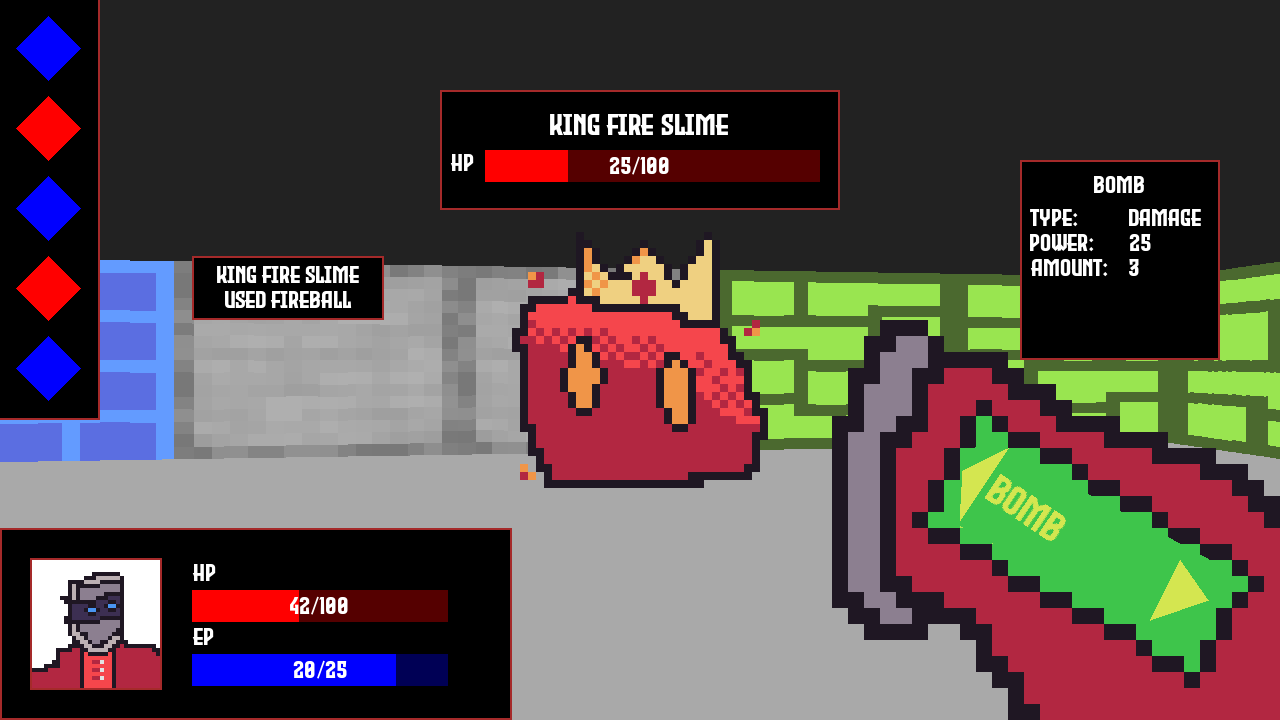
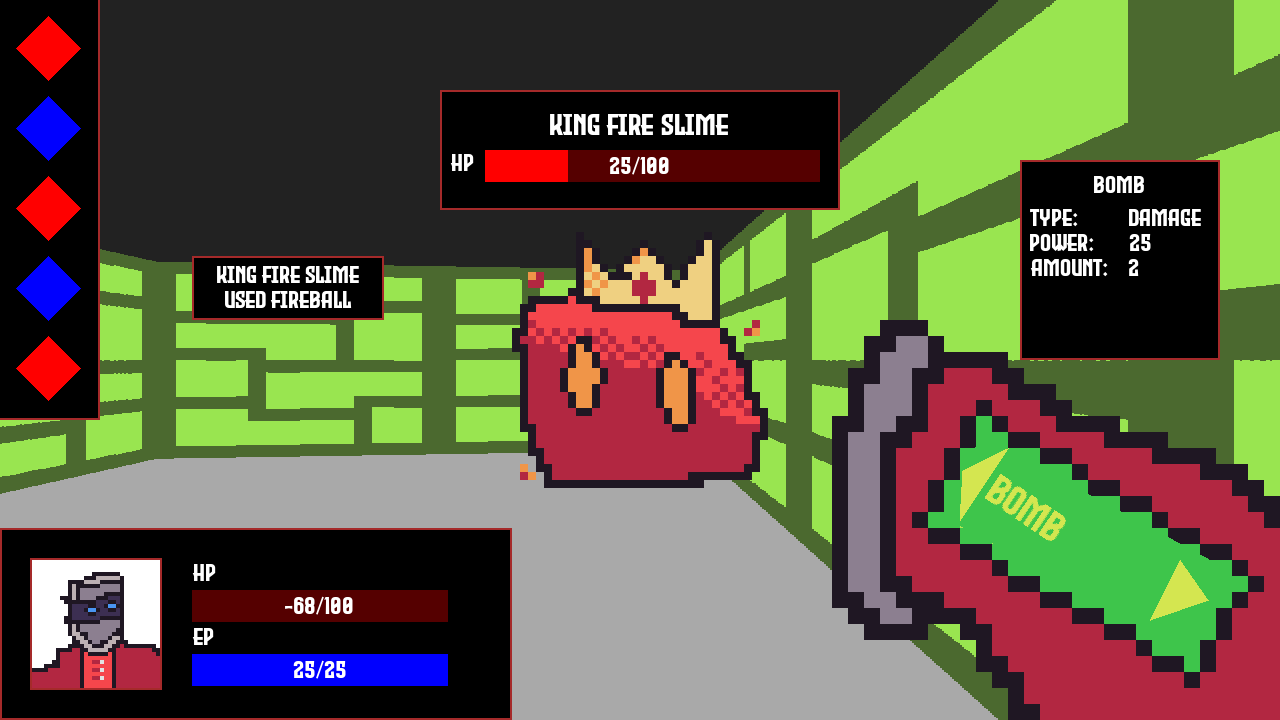
More Enemies
- There is now the ability to add more enemies
- Added Slime
- Enemy tile
- Enemies Show up in the world with the correct sprite
- Enemies get loaded with the correct stats and moveset
- Added Physical Enemy Attack 1
- Added ID to enemy class
- Added more moves to enemy moves file
- Added BasicSlime text file
- Fixed some graphical bugs (turn order not being drawn after update in battle item and energy because I didn't include it in their draw funcitons)
- Added Door Transitions

diff --git a/main.py b/main.py
@@ -68,10 +68,10 @@ map = [[1,1,1,1,1,1,1,1,1],
        [1,0,"S",0,1],
        [1,0,1,0,tile("Wall",wall_image=wall_image("Blue_Brick.png"))],
        [1,0,0,0,tile("Wall",wall_image=wall_image("SmoothStone.png"))],
-       [1,0,"B",0,tile("Wall",wall_image=wall_image("SmoothStone.png"))],
-       [wallTest,0,0,0,1],
-       [1,0,"W",0,1],#W on this line is just an indicator for me for where the player starts, it doesn't affect any processing
-       [1,1,1,1,1]]
+       [1,0,"BasicSlime",0,tile("Wall",wall_image=wall_image("SmoothStone.png")),1,1,1,1],
+       [wallTest,0,0,0,0,0,0,0,1],
+       [1,0,"W",0,0,0,"KingFireSlime",0,1],#W on this line is just an indicator for me for where the player starts, it doesn't affect any processing
+       [1,1,1,1,1,1,1,1,1]]
 
 
 for x in range(len(map)):
@@ -80,8 +80,10 @@ for x in range(len(map)):
             map[x][y]=tile("Wall",wall_image=wall_image("Brick.png"))
         elif map[x][y]==0 or map[x][y]=="W":
             map[x][y]=tile("Path")
-        elif type(map[x][y])==str:
+        elif map[x][y]=="S":
             map[x][y]=tile("Sprite",spriteInfo=map[x][y])
+        elif type(map[x][y])==str:
+            map[x][y]=tile("Enemy",spriteInfo=map[x][y])
             # print(1)
 
 # print(type(tile("Wall",wall_image("Smooth_Stone.png"))))
@@ -98,7 +100,7 @@ class battle_sprites():
         screen.blit(self.battle_image,img_rect)
         
 
-enemy = battle_sprites("FireSlimeKing")
+enemy = battle_sprites("KingFireSlime")
 
 
 player_stats = player_battle_container()
@@ -108,7 +110,7 @@ turnOrder = ["#0000FF","#0000FF","#FF0000","#0000FF","#FF0000"]
 
 # door = Image.open("Assets/Door.png")
 
-sprites_loaded = {"door" : pygame.image.load("Assets/Door.png").convert_alpha(),"KingFireSlime": pygame.image.load("Assets/FireSlimeKing.png").convert_alpha()}
+sprites_loaded = {"door" : pygame.image.load("Assets/Door.png").convert_alpha(),"KingFireSlime": pygame.image.load("Assets/KingFireSlime.png").convert_alpha(),"BasicSlime": pygame.image.load("Assets/BasicSlime.png").convert_alpha()}
 
 #UI images
 player_selfie = pygame.image.load("Assets/PlayerSelfie.png").convert_alpha()
@@ -237,14 +239,15 @@ def raycast_ray(count):
     while not is_blocked:#Until the ray meets a boundary
         degree_angles = math.degrees(angle)#convert angle from radians to degrees as it makes some calculations easier
 
-        if map[ray_pos_grid[1]][ray_pos_grid[0]].tileType == "Sprite":#if there are any sprites on the screen that should be rendered
+        if map[ray_pos_grid[1]][ray_pos_grid[0]].tileType == "Sprite" or map[ray_pos_grid[1]][ray_pos_grid[0]].tileType == "Enemy":#if there are any sprites on the screen that should be rendered
             if (ray_pos_grid[0],ray_pos_grid[1]) not in sprites_pos_that_can_be_rendered:
                 #print(degree_angles)
                 sprites_pos_that_can_be_rendered.append( (ray_pos_grid[0],ray_pos_grid[1]) )
                 if map[ray_pos_grid[1]][ray_pos_grid[0]].spriteInfo == "S":
                     sprites.append( sprite_obj(ray_pos_grid[0]+0.5,ray_pos_grid[1]+0.5) )
                 else:
-                    sprites.append( sprite_obj(ray_pos_grid[0]+0.5,ray_pos_grid[1]+0.5,imageID="KingFireSlime") )
+                    #Enemy
+                    sprites.append( sprite_obj(ray_pos_grid[0]+0.5,ray_pos_grid[1]+0.5,imageID=map[ray_pos_grid[1]][ray_pos_grid[0]].spriteInfo) )
             else:
                 sprites[-1].left_point = 0
 
@@ -603,6 +606,18 @@ def draw_screen():
 
 
 
+def draw_turn_counters():
+    #turn order box
+    pygame.draw.rect(screen,"brown",pygame.Rect(0,0,100,420))
+    pygame.draw.rect(screen,"#000000",pygame.Rect(0,0,98,418))
+    
+    pygame.draw.polygon(screen, turnOrder[0],((48,16),(80,48),(48,80),(16,48)))
+    pygame.draw.polygon(screen, turnOrder[1],((48,96),(80,128),(48,160),(16,128)))
+    pygame.draw.polygon(screen, turnOrder[2],((48,176),(80,208),(48,240),(16,208)))
+    pygame.draw.polygon(screen, turnOrder[3],((48,256),(80,288),(48,320),(16,288)))
+    pygame.draw.polygon(screen, turnOrder[4],((48,336),(80,368),(48,400),(16,368)))
+
+
 #next 3 functions are used to draw UI in of battle menus
 def draw_battle_UI():
     
@@ -624,15 +639,7 @@ def draw_battle_UI():
         draw_text(screen,"Guard",optionColours[3],1075,550,34,40)
 
 
-    #turn order box
-    pygame.draw.rect(screen,"brown",pygame.Rect(0,0,100,420))
-    pygame.draw.rect(screen,"#000000",pygame.Rect(0,0,98,418))
-   
-    pygame.draw.polygon(screen, turnOrder[0],((48,16),(80,48),(48,80),(16,48)))
-    pygame.draw.polygon(screen, turnOrder[1],((48,96),(80,128),(48,160),(16,128)))
-    pygame.draw.polygon(screen, turnOrder[2],((48,176),(80,208),(48,240),(16,208)))
-    pygame.draw.polygon(screen, turnOrder[3],((48,256),(80,288),(48,320),(16,288)))
-    pygame.draw.polygon(screen, turnOrder[4],((48,336),(80,368),(48,400),(16,368)))
+    draw_turn_counters()
 
 
 def draw_battle_energy_UI():
@@ -665,6 +672,8 @@ def draw_battle_energy_UI():
     draw_text(screen,f"Heal:           {selectedMove.healValue}","#FFFFFF",1030,305)
     draw_text(screen,f"EP Cost:       {selectedMove.EPcost}","#FFFFFF",1030,330)
 
+    draw_turn_counters()
+
 
 def draw_battle_item_UI():
     pygame.draw.polygon(screen,"#3ec54b", ((980,435),(1220,565),(1195,650),(950,520)) )
@@ -684,6 +693,8 @@ def draw_battle_item_UI():
     draw_text(screen,f"Type:          {selectedItem.effectType}","#FFFFFF",1030,205)
     draw_text(screen,f"Power:       {selectedItem.potency}","#FFFFFF",1030,230)
     draw_text(screen,f"Amount:    {player_stats.items[selectedItem]}","#FFFFFF",1030,255)
+
+    draw_turn_counters()
 
 
 def draw_battle_won_UI():
@@ -815,7 +826,7 @@ a = battleAnimation(animID="Fire2Enemy",x=16)
 
 #main function
 def main():
-    global player_angle, brick, turnOrder, playerTurn, displayInv
+    global player_angle, brick, turnOrder, playerTurn, displayInv, enemy_obj
 
     player_angle = 0
     turnOrder = calculate_turn_order(player_stats,enemy_obj)
@@ -868,14 +879,19 @@ def main():
 
             if map[int(player_pos[1])][int(player_pos[0])].spriteInfo=="S": #can change later so we in the centre 0.5 square
                 new_maze()
+                battleAnimation(length=20,).transitionAnim(screen)
                 draw_screen()
-            elif map[int(player_pos[1])][int(player_pos[0])].spriteInfo=="B":
+            elif map[int(player_pos[1])][int(player_pos[0])].tileType=="Enemy":
+                enemy_obj = load_enemy( map[int(player_pos[1])][int(player_pos[0])].spriteInfo )
                 map[int(player_pos[1])][int(player_pos[0])] = tile("Path")
+                battleAnimation(length=20,).transitionAnim(screen)
+
                 draw_screen()
                 pygame.display.flip()
+                
                 game_state.set_value("Battle")
                 pygame.image.save(screen, "Assets/saveBackground.png")
-                battleAnimation(length=20,).transitionAnim(screen)
+                
    
         elif game_state.value == "Battle":
             player_stats.cancel_guard()
@@ -963,7 +979,7 @@ def main():
             #draw things onto screen
             draw_battle_UI()
 
-            enemy.draw_enemy()
+            battle_sprites(enemy_obj.ID).draw_enemy()
             draw_player_stats()
             draw_enemy_stats()
 
@@ -1014,8 +1030,10 @@ def main():
                         if player_stats.ep >= move.EPcost:
                             game_state.set_value("Battle")
                             playerTurn = False
+                            
                             update_turn_counters()
                             determine_turn()
+                            
 
                             player_stats.ep -= move.EPcost
 
@@ -1041,6 +1059,7 @@ def main():
 
                             player_stats.hp += move.healValue
                             enemy_obj.hp -= int(energyDamage)
+
 
 
                         else:

diff --git a/battleElements.py b/battleElements.py
@@ -17,7 +17,7 @@ class battle_container():
         
 
 class player_battle_container(battle_container):
-    def __init__(self, max_hp=100, max_ep=25, physicalStrength=10, defence=10, speed=80, fireStrength=1, iceStrength=1, eartStrength=1, fireDefence=1, iceDefence=1, earthDefence=1,relics=[],specialRelics=[],items={},energyMoves=[0,0,0,0]):
+    def __init__(self, max_hp=100, max_ep=25, physicalStrength=10, defence=10, speed=50, fireStrength=1, iceStrength=1, eartStrength=1, fireDefence=1, iceDefence=1, earthDefence=1,relics=[],specialRelics=[],items={},energyMoves=[0,0,0,0]):
         super().__init__(max_hp, physicalStrength, defence, speed, fireStrength, iceStrength, eartStrength, fireDefence, iceDefence, earthDefence)
         self.max_ep = max_ep
         self.ep=max_ep
@@ -45,10 +45,12 @@ class player_battle_container(battle_container):
 
 
 class enemy_battle_container(battle_container):
-    def __init__(self, max_hp=100, physicalStrength=10, defence=10, speed=10, fireStrength=5, iceStrength=5, earthStrength=5, fireDefence=5, iceDefence=5, earthDefence=5,name="NULL",moves={}):
+    def __init__(self, max_hp=100, physicalStrength=10, defence=10, speed=10, fireStrength=5, iceStrength=5, earthStrength=5, fireDefence=5, iceDefence=5, earthDefence=5,name="NULL",ID="",moves={}):
         super().__init__(max_hp, physicalStrength, defence, speed, fireStrength, iceStrength, earthStrength, fireDefence, iceDefence, earthDefence)
         self.name=name
+        self.ID = ID
         self.moves=moves
+
 
     def make_move(self,opponent):
         randVal = random.random()
@@ -96,6 +98,8 @@ class enemy_battle_container(battle_container):
         moveCounter-=1
         # print(list(self.moves.keys())[moveCounter].name)
         move = list(self.moves.keys())[moveCounter]
+
+        print(self.moves.keys())
 
         return move
 
@@ -199,7 +203,8 @@ def load_enemy(enemyID):
         enemyData[i]=enemyData[i].removesuffix("\n")
 
     tempEnemyContainer = enemy_battle_container(name=enemyData[0],max_hp=int(enemyData[1]),physicalStrength=int(enemyData[2]),defence=int(enemyData[3]),speed=int(enemyData[4]),fireStrength=float(enemyData[5]),\
-                                                iceStrength=float(enemyData[6]),earthStrength=float(enemyData[7]),fireDefence=float(enemyData[8]),iceDefence=float(enemyData[9]),earthDefence=float(enemyData[10]),)
+                                                iceStrength=float(enemyData[6]),earthStrength=float(enemyData[7]),fireDefence=float(enemyData[8]),iceDefence=float(enemyData[9]),earthDefence=float(enemyData[10]),\
+                                                    ID=enemyID, moves={})
 
     for i in range(11,len(enemyData)):
         moveData = enemyData[i].split(",")
